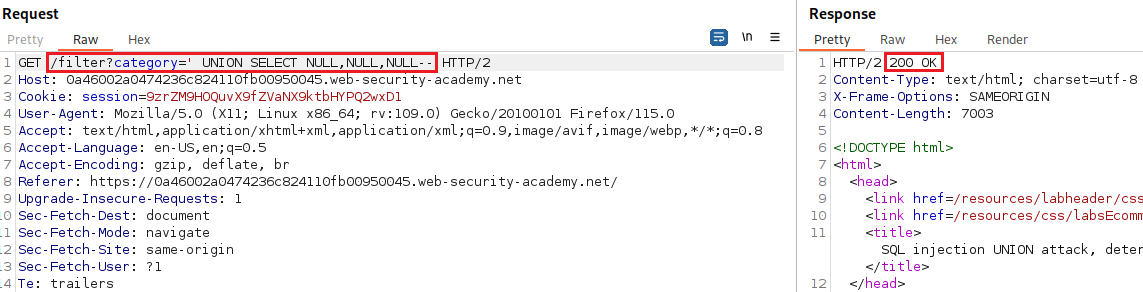
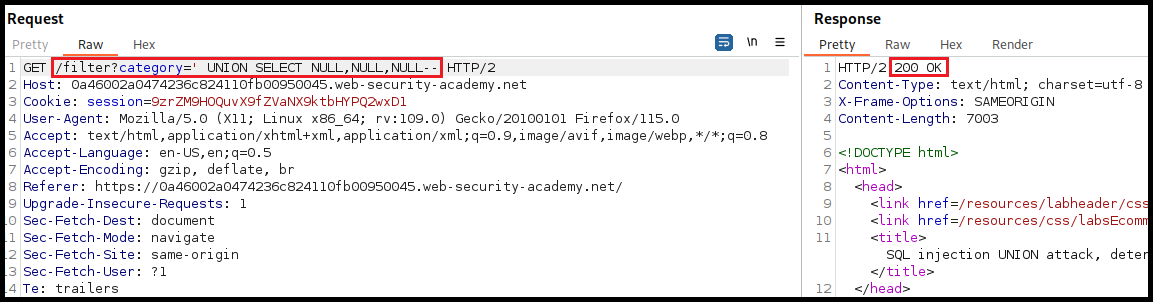
GITBOOK-501: No subject

Changed region(s): [[0.0, 0.0, 1.0, 1.0]]

diff --git a/Pentest Journeys/tl-dr/web/injections/sqli/in-band.md b/Pentest Journeys/tl-dr/web/injections/sqli/in-band.md
@@ -124,22 +124,29 @@ Table: injection0x01
 A SQLi Union attack occurs when an attacker uses the `UNION` SQL operator to combine the results of malicious queries with the results of legitimate queries, often to retrieve additional data.
 {% endhint %}
 
-> _The example below is based on PostSwigger's_ [_SQL injection UNION attack, retrieving data from other tables_](https://portswigger.net/web-security/sql-injection/union-attacks/lab-retrieve-data-from-other-tables) _lab._
+For a successful `UNION` attack two conditions must be met:
 
-We can start testing for SQLi flaws by fuzzing the request's parameters with common SQLi payloads (Figure 3).
+1. The invididual queries must return the same number of columns.
+   * [How many columns](https://x7331.gitbook.io/boxes/services/sql/mysql-3306#number-of-columns) are returned from the original query?
+2. The data types in each column must be compatible between the individual queries.
+   * [Which columns are suitable](https://x7331.gitbook.io/boxes/services/sql/mysql-3306#data-types) to hold the results from the injected query?
 
-<figure><img src="../../../../.gitbook/assets/web_sqli_1.png" alt=""><figcaption><p>Figure 3: Fuzzing for SQLi flaws.</p></figcaption></figure>
+### Number of Columns <a href="#number-of-columns" id="number-of-columns"></a>
 
-Intruder's results indicate that the `category`parameter is vulnerable to SQLi, so the next step is to manually confirm that we can affect the response's behaviour (Figure 4).
+Incrementing an `ORDER BY` clause's index until it errors. The number represents the column's index; when this exceeds the number of the actual columns we will get an index-related error (Figure 4a & 4b).
 
-<figure><img src="../../../../.gitbook/assets/web_sqli_2.png" alt=""><figcaption><p>Figure 4: Validating the SQLi vulnerability.</p></figcaption></figure>
+<figure><img src="../../../../.gitbook/assets/lab1_sqli_test_burp.png" alt=""><figcaption><p>Figure 3: Detecting SQLi.</p></figcaption></figure>
 
-Now we have discovered and validated the SQLi flaw, we can use automated tools, such as [SQLMap](../../../../tools/web/sqlmap.md), for data exfiltration (Figure 5).
+<figure><img src="../../../../.gitbook/assets/lab1_orderby1_burp.png" alt=""><figcaption><p>Figure 4a: Indexing the first column.</p></figcaption></figure>
 
-{% code overflow="wrap" %}
-```bash
-sqlmap.py -u "https://0a7d006003157b9a803eda4300a600fd.web-security-academy.net/filter?category=Pets" --batch -v 0 -T users --dump
-```
-{% endcode %}
+<figure><img src="../../../../.gitbook/assets/lab1_orderby4_burp.png" alt=""><figcaption><p>Figure 4b: Indexing the 4th column returns a server error.</p></figcaption></figure>
 
-<figure><img src="../../../../.gitbook/assets/web_sqli_3.png" alt=""><figcaption><p>Figure 5: Using <code>sqlmap</code> to exfiltrate data from the <code>users</code> table.</p></figcaption></figure>
+We can also use the `UNION SELECT NULL` payload to achieve the same goal (Figure 5).
+
+<figure><img src="../../../../.gitbook/assets/lab1_solved_burp.png" alt=""><figcaption><p>Figure 5: Enumerating the number of columns using UNION SELECT NULL.</p></figcaption></figure>
+
+### Data Types
+
+Typically the data we want to exfiltrate is in text form, thus, we must enumerate which column in the original query can hold this type of data. This can be done by passing a random string column by column until the server accepts it (Figure 6).
+
+<figure><img src="../../../../.gitbook/assets/lab2_datatype_pos (1).png" alt=""><figcaption><p>Figure 6: Enumerating a column that accepts strings.</p></figcaption></figure>

diff --git a/Pentest Journeys/services/sql/mysql-3306.md b/Pentest Journeys/services/sql/mysql-3306.md
@@ -146,36 +146,7 @@ To write a webshell, we must know the **webroot**. We can find it is by using `l
 
 <table><thead><tr><th width="144">Server</th><th>Directory</th></tr></thead><tbody><tr><td>Apache</td><td>/etc/apache2/apache2.conf</td></tr><tr><td>Nginx</td><td>/etc/nginx/nginx.conf</td></tr><tr><td>ISS</td><td>$WinDir%\System32\Inetsrv\Config\ApplicationHost.config</td></tr></tbody></table>
 
-## Example (UNION Attack)
-
-Appropriate when the results are returned within the application's response. Two conditions must be met:
-
-1. The invididual queries must return the same number of columns.
-   * [ ] [How many columns](mysql-3306.md#number-of-columns) are returned from the original query?
-2. The data types in each column must be compatible between the individual queries.
-   * [ ] [Which columns are suitable](mysql-3306.md#data-types) to hold the results from the injected query?
-
-### Number of Columns
-
-Incrementing an `ORDER BY` clause's index until it errors. The number represents the column's index; when this exceeds the number of the actual columns we will get an index-related error.
-
-<figure><img src="../../.gitbook/assets/lab1_sqli_test_burp.png" alt=""><figcaption><p>Figure 1: Detecting SQLi.</p></figcaption></figure>
-
-<figure><img src="../../.gitbook/assets/lab1_orderby1_burp.png" alt=""><figcaption><p>Figure 2a: Indexing the first column.</p></figcaption></figure>
-
-<figure><img src="../../.gitbook/assets/lab1_orderby4_burp.png" alt=""><figcaption><p>Figure 2b: Indexing the 4th column returns a server error.</p></figcaption></figure>
-
-We can also use the `UNION SELECT NULL` payload to achieve the same goal.
-
-<figure><img src="../../.gitbook/assets/lab1_solved_burp.png" alt=""><figcaption><p>Figure 3: Enumerating the number of columns using UNION SELECT NULL.</p></figcaption></figure>
-
-### Data Types
-
-Typically the data we want to exfiltrate is in text form, thus, we must enumerate which column in the original query can hold this type of data. This can be done by passing a random string column by column until the server accepts it.
-
-<figure><img src="../../.gitbook/assets/lab2_datatype_pos1.png" alt=""><figcaption><p>Figure 4: Passing string data to the first column returns a server error.</p></figcaption></figure>
-
-<figure><img src="../../.gitbook/assets/lab2_datatype_pos2.png" alt=""><figcaption><p>Figure 5: Passing string data to the second column is accepted by the server.</p></figcaption></figure>
+For an example of a manual SQLi attack on a MySQL database, see [here](../../tl-dr/web/injections/sqli/in-band.md#union-attack).
 
 ## Resources
 
